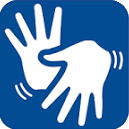
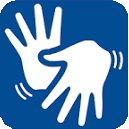
added blue color at the loading page backgrund

diff --git a/lib/telas/splash.dart b/lib/telas/splash.dart
@@ -26,7 +26,7 @@ class _SplashState extends State<Splash> {
   @override
   Widget build(BuildContext context) {
     return Scaffold(
-      backgroundColor: Colors.blue,
+      backgroundColor: const Color.fromARGB(255, 1, 76, 138),
       body: Center(
         child: Column(
           mainAxisAlignment: MainAxisAlignment.center,
@@ -41,14 +41,15 @@ class _SplashState extends State<Splash> {
                       style: TextStyle(
                         fontSize: 25,
                         fontWeight: FontWeight.w500,
+                        color: Colors.white,
                       ),
                     ),
                     Text(
-                      ' LIBRAR.',
+                      'LiBRAR.',
                       style: TextStyle(
-                        fontSize: 40,
-                        fontWeight: FontWeight.bold,
-                      ),
+                          fontSize: 40,
+                          fontWeight: FontWeight.bold,
+                          color: Colors.white),
                     ),
                   ],
                 ),
